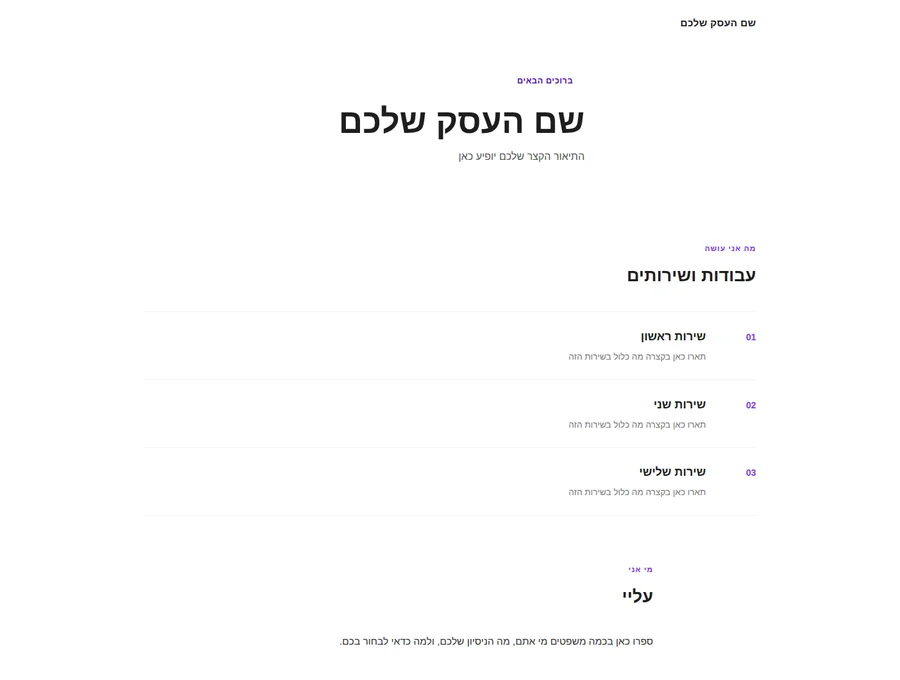
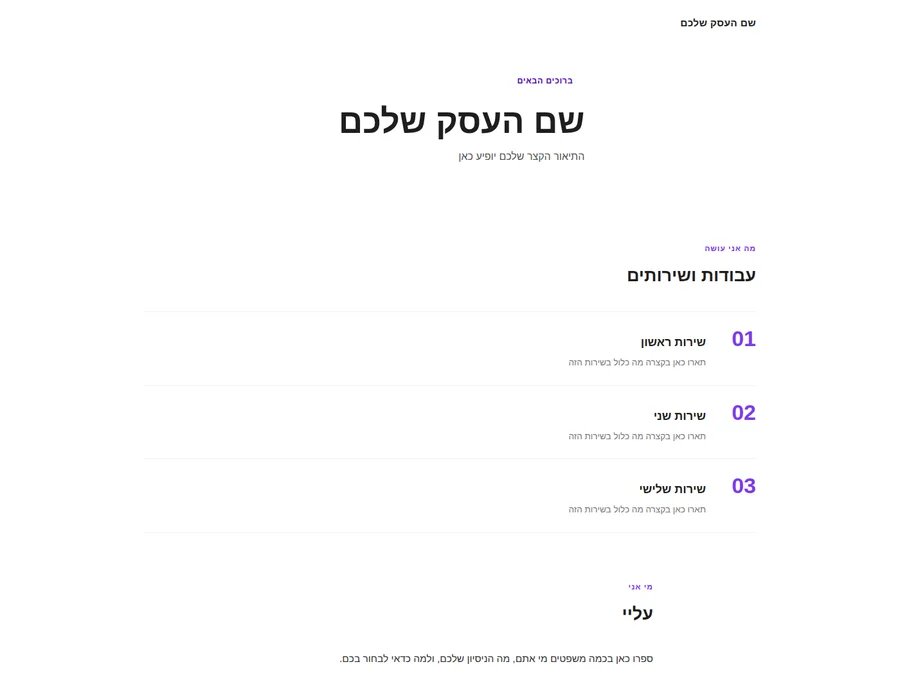
Fix the "portfolio" template's thumbnail looking uncolored
Its accent color only ever showed up as tiny 14px numbers and a pale
"eyebrow" pill, so the preview thumbnail read as plain white/uncolored
next to every other template — not actually a caching or deployment
bug, just this one template's own design never giving its category
color anywhere prominent enough to see at a glance. Enlarged the
numbered list markers so the violet is now clearly visible, and
regenerated its thumbnail.

Claude-Session: https://claude.ai/code/session_0157gJphGVbeX9GSLjjRJNPV

diff --git a/js/site-templates.js b/js/site-templates.js
@@ -955,7 +955,7 @@ function renderPortfolioSite(d, page) {
     .po-work-head h2 { font-size:27px; margin:10px 0 0; }
     .po-work-row { display:grid; grid-template-columns:60px 1fr auto; align-items:baseline; gap:18px; padding:24px 0; border-top:1px solid #EDEDED; }
     .po-work-row:last-child { border-bottom:1px solid #EDEDED; }
-    .po-work-idx { font-size:14px; font-weight:800; color:#${pal.primary}; }
+    .po-work-idx { font-size:34px; font-weight:800; color:#${pal.primary}; line-height:1; }
     .po-work-main h3 { margin:0 0 6px; font-size:18px; font-weight:800; }
     .po-work-main p { margin:0; font-size:13.5px; color:#777; max-width:480px; }
     .po-work-row .price { font-weight:800; color:#${pal.primaryDark}; font-size:14.5px; white-space:nowrap; }
